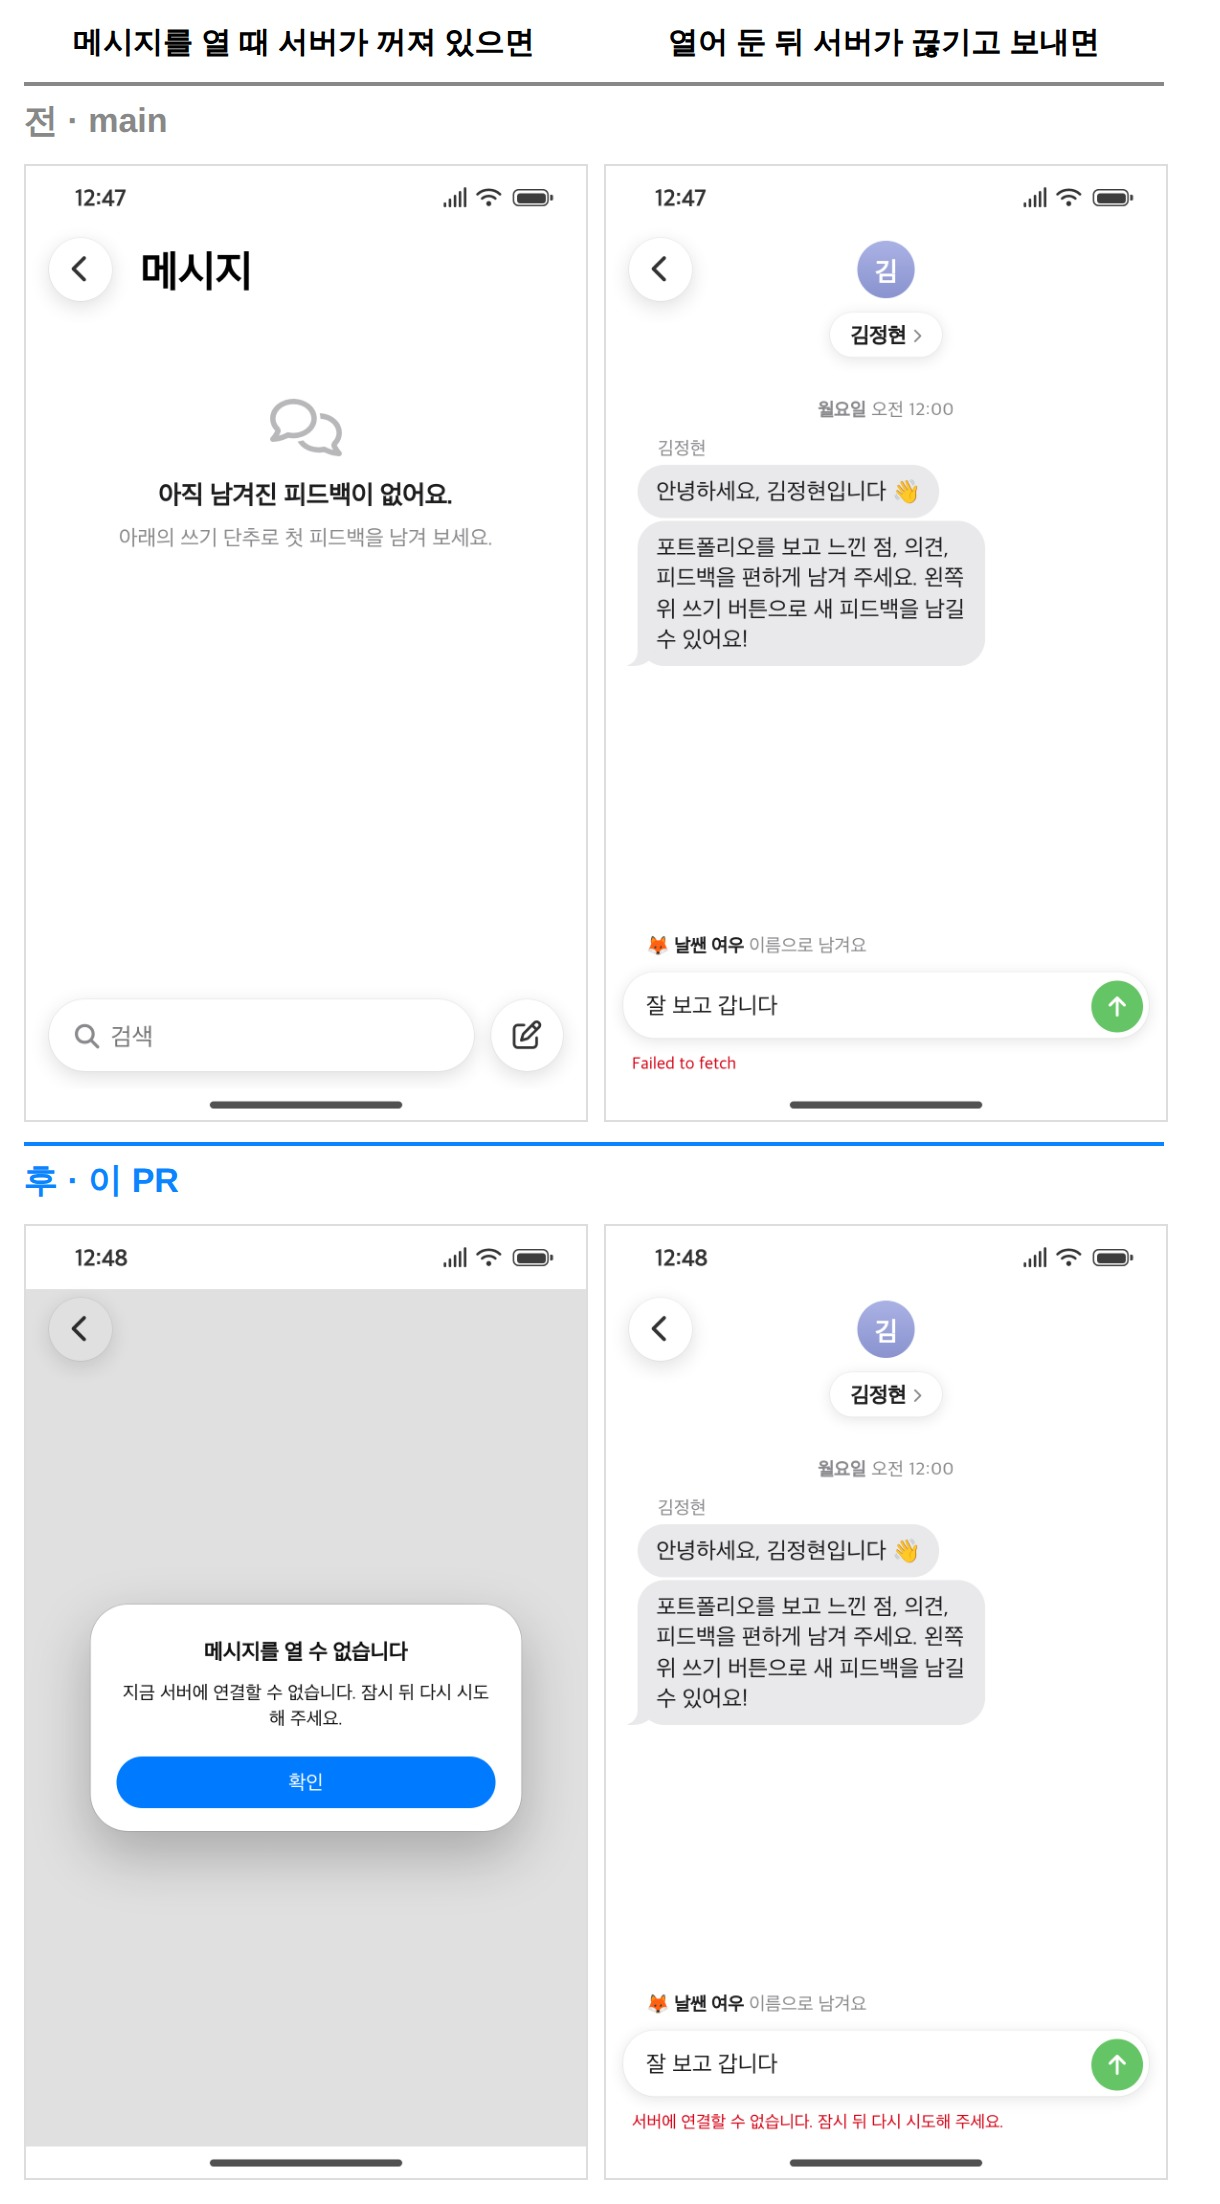
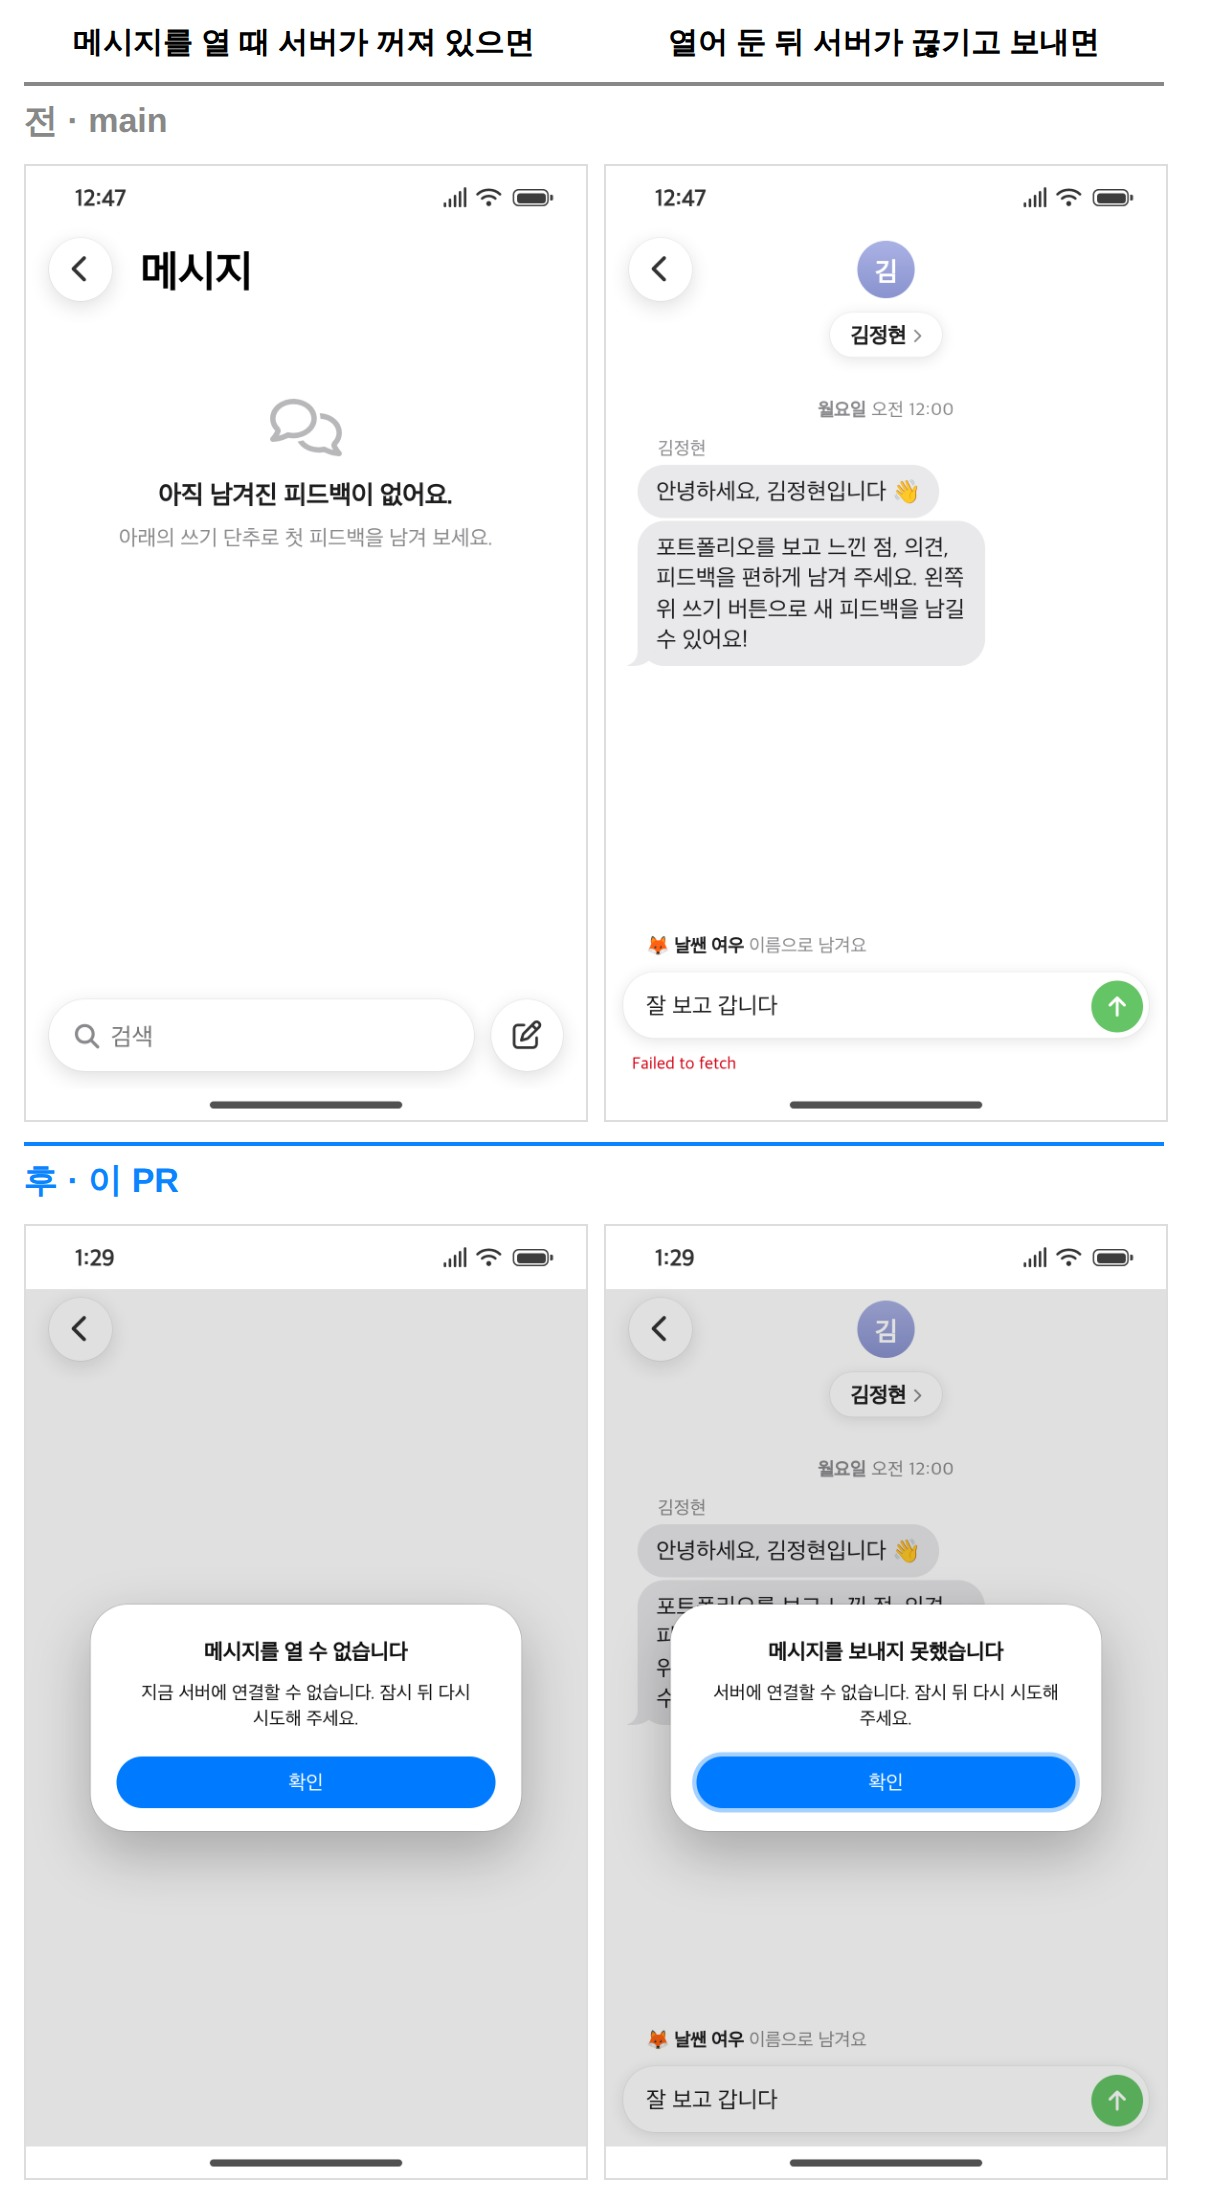
fix(messages): 보내기 실패를 경고창으로 알려 입력창이 밀리지 않게

Changed region(s): [[0.4984, 0.5554, 0.9656, 0.9873], [0.1246, 0.7405, 0.4049, 0.8022], [0.0623, 0.5554, 0.0934, 0.5862]]

diff --git a/apps/react/src/apps/messages/components/Composer.tsx b/apps/react/src/apps/messages/components/Composer.tsx
@@ -1,4 +1,5 @@
-import React, { useState } from 'react';
+import React, { useRef, useState } from 'react';
+import AlertDialog from '@/shared/ui/dialog/AlertDialog';
 import { LIMITS } from '../conversations';
 
 export interface SendResult {
@@ -15,15 +16,20 @@ interface Props {
 	placeholder?: string;
 }
 
-/** macOS 메시지 앱의 떠 있는 알약 입력창. Enter로 보내고 Shift+Enter로 줄을 바꾼다. */
+/**
+ * macOS 메시지 앱의 떠 있는 알약 입력창. Enter로 보내고 Shift+Enter로 줄을 바꾼다.
+ * 보내지 못하면 입력창 아래 줄 대신 경고창으로 알린다 (에러 줄이 생기며 화면이 밀리지 않게). 쓴 글은 그대로 남는다.
+ */
 const Composer: React.FC<Props> = ({ onSend, children, autoFocus, placeholder = '메시지' }) => {
 	const [text, setText] = useState('');
 	const [error, setError] = useState<string>();
 	const [sending, setSending] = useState(false);
+	const textarea = useRef<HTMLTextAreaElement>(null);
 
 	const submit = async (event?: React.FormEvent) => {
 		event?.preventDefault();
-		if (sending) return;
+		// 빈 글은 보내기 단추도 없으므로 Enter도 무시한다
+		if (sending || !text.trim()) return;
 		setSending(true);
 		try {
 			const result = await onSend(text);
@@ -34,7 +40,10 @@ const Composer: React.FC<Props> = ({ onSend, children, autoFocus, placeholder = 
 		}
 	};
 
-	const shownError = error;
+	const closeError = () => {
+		setError(undefined);
+		textarea.current?.focus();
+	};
 	const canSend = text.trim().length > 0 && !sending;
 
 	return (
@@ -42,17 +51,14 @@ const Composer: React.FC<Props> = ({ onSend, children, autoFocus, placeholder = 
 			{children}
 			<div className="messages-field">
 				<textarea
+					ref={textarea}
 					aria-label="메시지"
 					placeholder={placeholder}
 					rows={1}
 					maxLength={LIMITS.text.max}
 					value={text}
 					autoFocus={autoFocus}
-					aria-invalid={!!shownError}
-					onChange={(event) => {
-						setText(event.target.value);
-						setError(undefined);
-					}}
+					onChange={(event) => setText(event.target.value)}
 					onKeyDown={(event) => {
 						// 한글 조합 중 Enter는 글자 확정이므로 보내지 않는다
 						if (event.key === 'Enter' && !event.shiftKey && !event.nativeEvent.isComposing) {
@@ -66,10 +72,15 @@ const Composer: React.FC<Props> = ({ onSend, children, autoFocus, placeholder = 
 					<i className="fa-solid fa-arrow-up" aria-hidden="true" />
 				</button>
 			</div>
-			{shownError && (
-				<p className="messages-error" role="alert">
-					{shownError}
-				</p>
+			{error && (
+				<AlertDialog
+					title="메시지를 보내지 못했습니다"
+					message={error}
+					confirmLabel="확인"
+					cancelLabel={null}
+					onConfirm={closeError}
+					onCancel={closeError}
+				/>
 			)}
 		</form>
 	);

diff --git a/apps/react/e2e/messages.spec.ts b/apps/react/e2e/messages.spec.ts
@@ -237,16 +237,24 @@ test.describe('메시지 서버에 닿지 못할 때', () => {
 		await expect(messages.getByRole('alertdialog', { name: '메시지를 열 수 없습니다' })).toBeVisible();
 	});
 
-	test('열어 둔 뒤에 서버가 끊기면 보내기 에러만 보인다', async ({ page }) => {
+	test('열어 둔 뒤에 서버가 끊기면 보내기 실패만 경고창으로 알리고, 쓴 글은 남는다', async ({ page }) => {
 		await fakeApi(page);
 		const messages = await openMessages(page);
 		await expect(transcript(messages)).toContainText('안녕하세요, 김정현입니다');
 
 		await page.route(`${FAKE_API}/messages/**`, (route) => route.abort());
 		await textbox(messages).fill('끊긴 뒤에 보내요');
+		const box = await textbox(messages).boundingBox();
 		await textbox(messages).press('Enter');
-		await expect(messages).toContainText('서버에 연결할 수 없습니다. 잠시 뒤 다시 시도해 주세요.');
-		await expect(messages.getByRole('alertdialog')).toHaveCount(0);
+		const alert = messages.getByRole('alertdialog', { name: '메시지를 보내지 못했습니다' });
+		await expect(alert).toContainText('서버에 연결할 수 없습니다. 잠시 뒤 다시 시도해 주세요.');
+		// 에러 줄이 생기며 입력창이 밀리지 않는다
+		expect(await textbox(messages).boundingBox()).toEqual(box);
+		await alert.getByRole('button', { name: '확인' }).click();
+		await expect(alert).toBeHidden();
 		await expect(textbox(messages)).toHaveValue('끊긴 뒤에 보내요');
+		await expect(textbox(messages)).toBeFocused();
+		// 앱은 닫히지 않는다
+		await expect(transcript(messages)).toContainText('안녕하세요, 김정현입니다');
 	});
 });

diff --git a/apps/react/src/shared/ui/dialog/AlertDialog.css b/apps/react/src/shared/ui/dialog/AlertDialog.css
@@ -26,6 +26,9 @@
 			0 16px 40px rgba(0, 0, 0, 0.25);
 		color: var(--color-popover-text, var(--color-text));
 		text-align: center;
+		/* 한국어 문장이 낱말 중간(시도해 주/세요)에서 꺾이지 않게 */
+		word-break: keep-all;
+		overflow-wrap: anywhere;
 		animation: pop-in var(--duration) var(--ease-spring);
 	}
 
@@ -58,5 +61,11 @@
 		--ui-button-padding: 9px 14px;
 		--ui-button-radius: 999px;
 		font-size: 14px;
+	}
+
+	/* 열 때 확인 단추에 초점을 두므로, 브라우저의 굵은 초점 테두리 대신 옅은 바깥 고리 */
+	.ui-alert-actions .ui-button:focus-visible {
+		outline: none;
+		box-shadow: 0 0 0 3px color-mix(in srgb, var(--ui-accent, var(--color-accent)) 35%, transparent);
 	}
 }

diff --git a/apps/react/src/apps/messages/repository/apiConversationRepository.ts b/apps/react/src/apps/messages/repository/apiConversationRepository.ts
@@ -10,7 +10,7 @@ async function failure(response: Response): Promise<Error> {
 	if (response.status === 429) return new Error('잠시 뒤에 다시 써 주세요.');
 	const body = (await response.json().catch(() => ({}))) as { message?: string | string[] };
 	const message = Array.isArray(body.message) ? body.message[0] : body.message;
-	return new Error(message ?? '보내지 못했습니다. 잠시 뒤 다시 시도해 주세요.');
+	return new Error(message ?? '서버에서 처리하지 못했습니다. 잠시 뒤 다시 시도해 주세요.');
 }
 
 /** 서버에 닿지 못했을 때 (주소가 없거나, 서버가 꺼졌거나, 네트워크가 끊김) */

diff --git a/apps/react/src/apps/messages/Messages.css b/apps/react/src/apps/messages/Messages.css
@@ -534,16 +534,6 @@
 	display: none;
 }
 
-.messages-composer [aria-invalid='true'] {
-	border-bottom-color: var(--messages-error);
-}
-
-.messages-error {
-	padding: 0 6px;
-	color: var(--messages-error);
-	font-size: 12px;
-}
-
 /* 대화를 바꾸면 살짝 나타나고, 말풍선은 꼬리 쪽에서 톡 튀어나온다 */
 .messages-chat {
 	animation: fade-in var(--duration-fast) var(--ease-out);

diff --git a/apps/react/src/apps/memo/content/messages-offline.md b/apps/react/src/apps/memo/content/messages-offline.md
@@ -7,7 +7,7 @@ summary: 메시지 앱이 서버에 저장하게 되면서, 서버에 닿지 못
 
 메시지 앱(감상·의견·피드백)은 방문자 쿠키로 이름을 정하는 작업에서 서버에 저장하게 됐다. 그런데 서버에 닿지 못할 때의 화면은 따로 만들지 않았다. 목록을 못 불러오면 "아직 남겨진 피드백이 없어요."가 떴고, 글을 보내면 입력창 아래에 브라우저의 영어 문구 "Failed to fetch"가 붉게 떴다.
 
-![데스크톱 전후](./images/messages-offline-desktop.jpg '전: 빈 목록, 보내면 Failed to fetch / 후: 열 때 경고창, 열어 둔 뒤에는 보내기 에러만')
+![데스크톱 전후](./images/messages-offline-desktop.jpg '전: 빈 목록, 보내면 Failed to fetch / 후: 열 때와 보낼 때 모두 경고창')
 
 빈 목록은 거짓말이다. 피드백이 없는 게 아니라 못 불러온 것이다. 서버가 없으면 읽지도 쓰지도 못하니 앱을 쓸 수 있는 척하는 것보다 열지 않는 편이 맞다. 메모가 코드를 못 불러오면 경고창을 띄우는 것과 같은 방식이다.
 
@@ -24,7 +24,11 @@ summary: 메시지 앱이 서버에 저장하게 되면서, 서버에 닿지 못
 
 ## 열어 둔 뒤에 끊기면
 
-앱을 쓰는 도중에 서버가 끊기면 앱을 닫지 않는다. 쓰던 글이 사라지기 때문이다. 보내기만 실패하고, 입력창에 글을 남긴 채 그 아래에 "서버에 연결할 수 없습니다. 잠시 뒤 다시 시도해 주세요."를 띄운다.
+앱을 쓰는 도중에 서버가 끊기면 앱을 닫지 않는다. 쓰던 글이 사라지기 때문이다. 보내기만 실패하고, 같은 경고창으로 "메시지를 보내지 못했습니다 / 서버에 연결할 수 없습니다. 잠시 뒤 다시 시도해 주세요. [확인]"을 띄운다. [확인]을 누르면 쓴 글이 입력창에 그대로 있고 커서도 돌아온다.
+
+처음에는 입력창 아래에 붉은 글 한 줄로 띄웠다. 그런데 에러가 생기면 그 줄만큼 입력창이 위로 밀렸다가, 글을 고치면 다시 내려왔다. 경고창은 화면 위에 뜨므로 아무것도 밀지 않는다. E2E 시험에서 보내기 전과 실패한 뒤의 입력창 위치가 같은지 본다.
+
+경고창 두 가지도 다듬었다. 문구가 "시도해 주/세요"처럼 낱말 중간에서 꺾여서 `word-break: keep-all`을 줬다. 열 때 [확인]에 초점을 두는데, 브라우저 기본 초점 테두리가 굵게(휴대폰 에뮬레이션에서는 주황) 그려져서 단추 색을 옅게 섞은 바깥 고리로 바꿨다. 공통 경고창이라 메모를 지울 때 묻는 창에도 같이 적용된다.
 
 그래서 처음 불러오기와 그 뒤의 목록 새로고침을 나눴다. 목록 상태는 `loading`에서만 `error`로 넘어간다.
 
